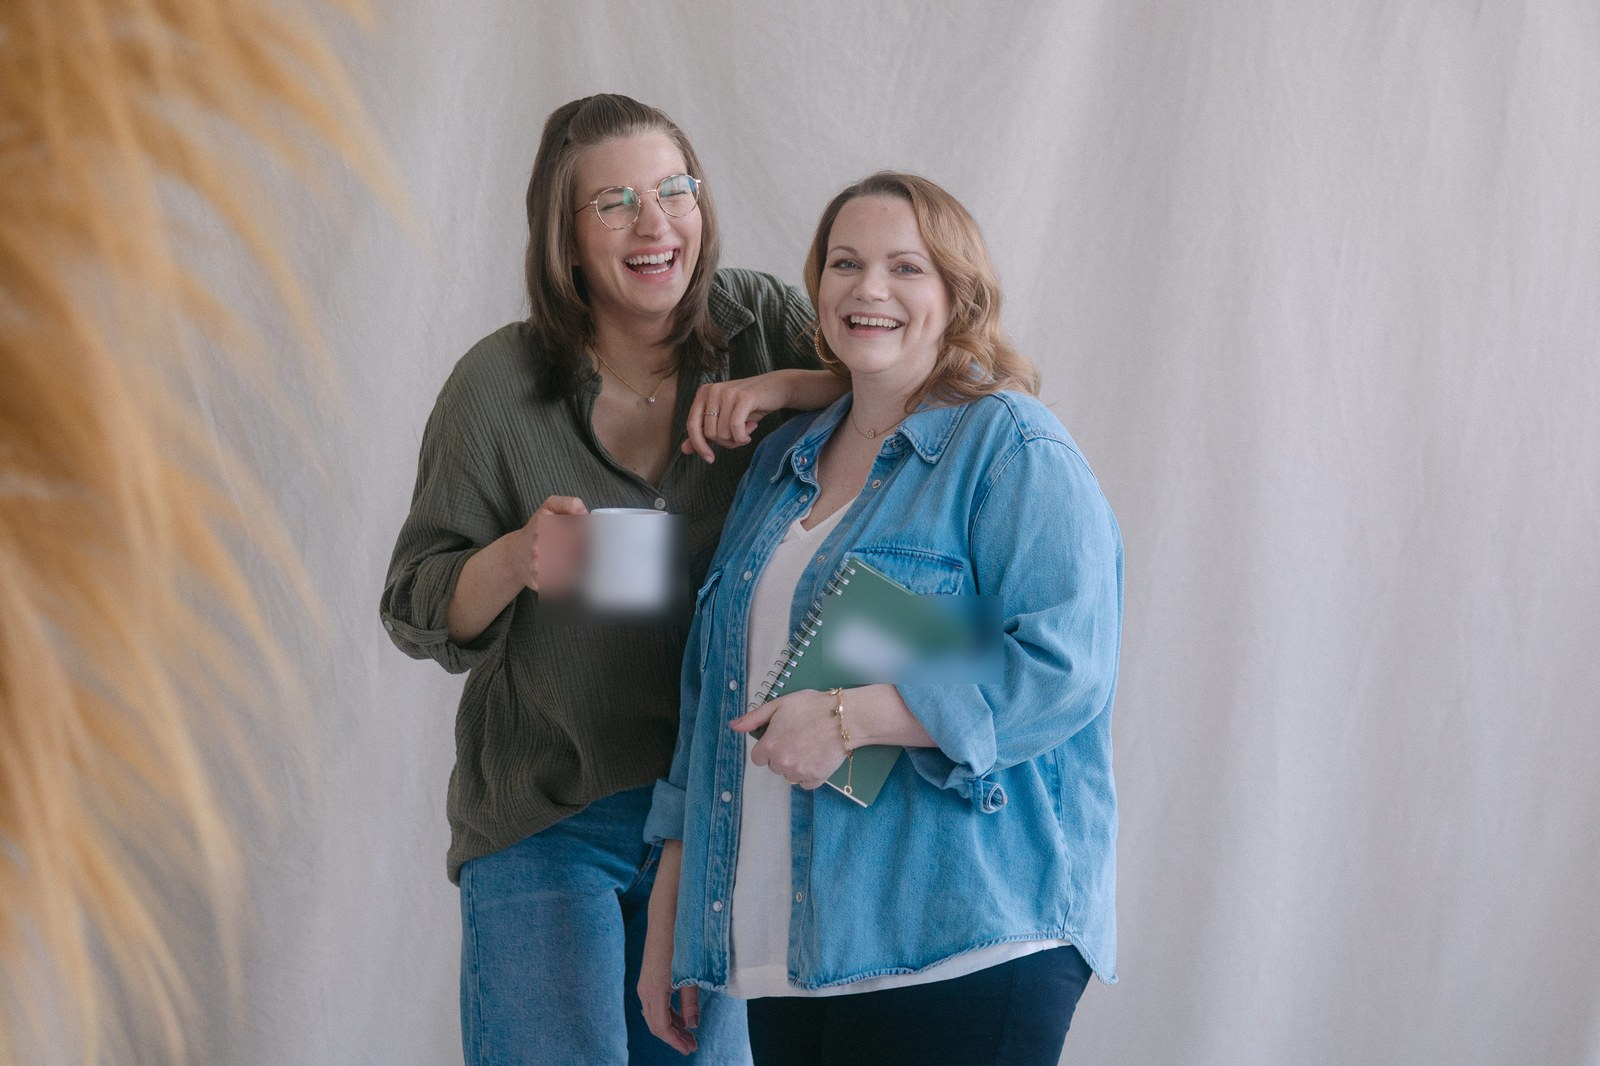
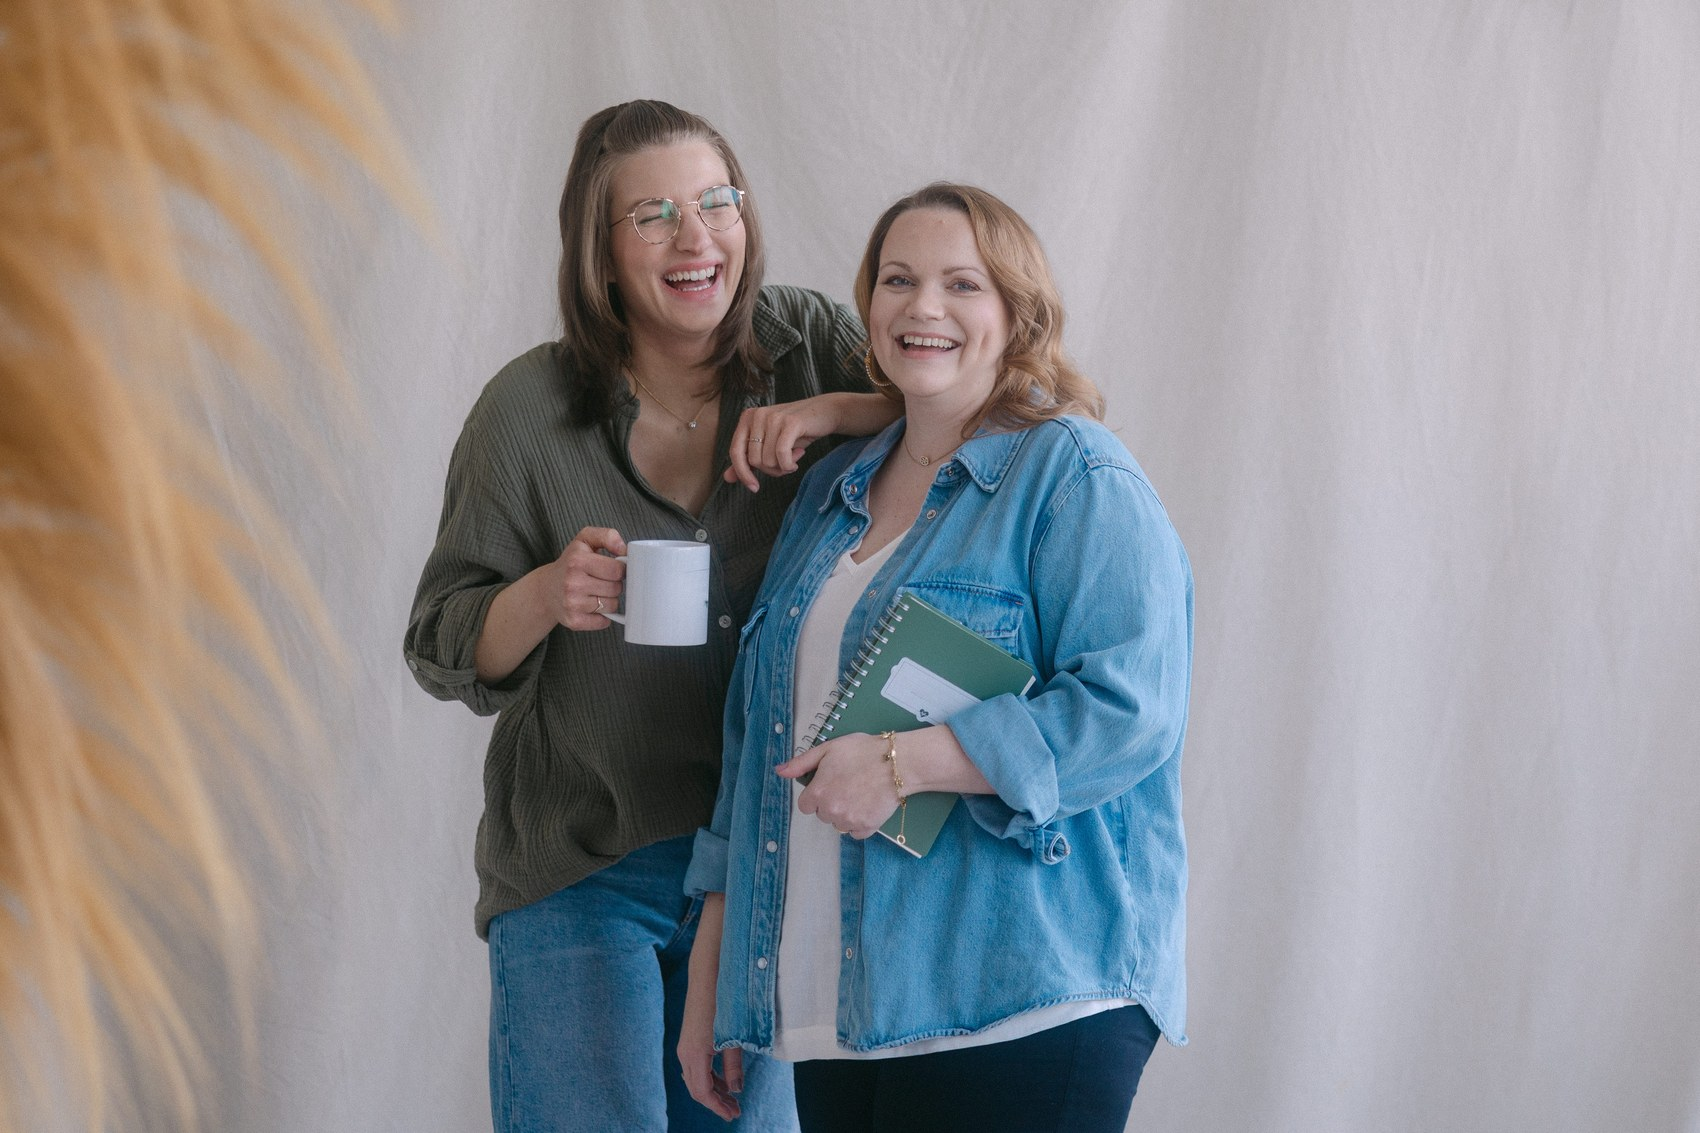
Hero intro: only both-women photos, shown uncropped
Swaps the hero image sequence for four fresh, logo-free photos the
client uploaded directly to content/fotos - all four now show Julia
and Stephanie together (phone+laptop, tablet, a pinky-promise moment,
and the laughing mug/notebook shot), replacing the two solo portraits
that were in the mix before.

Also switches object-fit from cover to contain so each photo is shown
in full rather than cropped to fill the box, with the hero's gradient
background as the surrounding mat instead of a hard-edged crop.

Removes the now-unused hero-julia.jpg/hero-stephanie.jpg and the
retouched hero-intro-4.jpg source, since the client removed the mug/
notebook branding herself in the new upload - no blur retouching
needed on these anymore.

Claude-Session: https://claude.ai/code/session_01NjvXYwXuPSC6ymX2jvEvzR

Changed region(s): [[0.5, 0.5572, 0.625, 0.6501], [0.3438, 0.4644, 0.4375, 0.5882]]

diff --git a/css/style.css b/css/style.css
@@ -285,9 +285,9 @@ p { margin: 0 0 1em; }
    ever starts once the preloader has actually lifted. */
 .hero__intro {
   position: absolute;
-  inset: 0;
+  inset: 7% 8%;
   z-index: 1;
-  overflow: hidden;
+  overflow: visible;
   pointer-events: none;
 }
 .hero__intro-img {
@@ -295,19 +295,19 @@ p { margin: 0 0 1em; }
   inset: 0;
   width: 100%;
   height: 100%;
-  object-fit: cover;
-  object-position: center 15%;
+  object-fit: contain;
   opacity: 0;
-  transform: scale(1.04);
-  transition: opacity 0.5s ease;
+  transform: scale(0.97);
+  transition: opacity 0.5s ease, transform 0.6s ease;
 }
 .hero__intro-img.is-active {
   opacity: 1;
+  transform: scale(1);
   z-index: 2;
 }
 .hero__intro-img.is-collapsing {
   z-index: 3;
-  transform-origin: 8% 10%;
+  transform-origin: 4% 4%;
   transition: transform 0.75s cubic-bezier(0.7, 0, 0.3, 1), opacity 0.5s ease 0.3s;
   transform: scale(0.08);
   opacity: 0;
@@ -315,8 +315,8 @@ p { margin: 0 0 1em; }
 .hero__intro::after {
   content: "";
   position: absolute;
-  inset: 0;
-  background: linear-gradient(180deg, rgba(20,24,19,0.35) 0%, rgba(20,24,19,0.55) 100%);
+  inset: -7% -8%;
+  background: linear-gradient(180deg, rgba(20,24,19,0.18) 0%, rgba(20,24,19,0.32) 100%);
 }
 
 .hero__content {

diff --git a/index.html b/index.html
@@ -36,8 +36,8 @@
   <section class="hero">
     <div class="hero__bg"></div>
     <div class="hero__intro" aria-hidden="true">
-      <img class="hero__intro-img" src="assets/images/hero-julia.jpg" alt="" loading="eager">
-      <img class="hero__intro-img" src="assets/images/hero-stephanie.jpg" alt="" loading="eager">
+      <img class="hero__intro-img" src="assets/images/hero-intro-1.jpg" alt="" loading="eager">
+      <img class="hero__intro-img" src="assets/images/hero-intro-2.jpg" alt="" loading="eager">
       <img class="hero__intro-img" src="assets/images/hero-intro-3.jpg" alt="" loading="eager">
       <img class="hero__intro-img" src="assets/images/hero-intro-4.jpg" alt="" loading="eager">
     </div>
